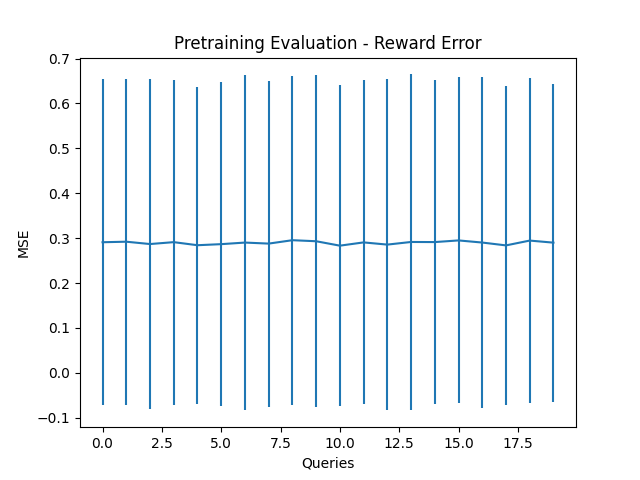
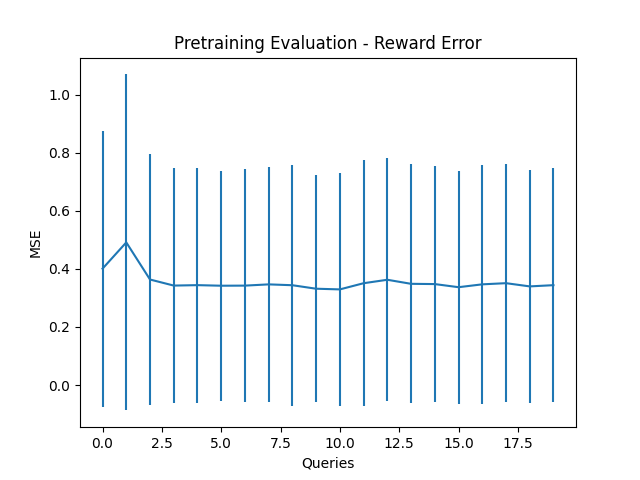
change query input to have chosen trajectory first

diff --git a/storage/vae_storage.py b/storage/vae_storage.py
@@ -22,24 +22,21 @@ class VAEStorage:
         self.buffer_len = 0
         self.idx = 0
 
-        self.queries = torch.zeros((self.buffer_size, args.query_size * args.num_features))
+        self.queries = torch.zeros((self.buffer_size, args.query_size, args.num_features))
 
         self.mean = None
         self.std = None
 
     def normalize_dataset(self, mean=None, std=None):
-        queries = self.queries.reshape((-1, self.args.num_features))
         if mean == None:
-            mean = torch.mean(queries[:self.buffer_len], dim=0)
+            mean = torch.mean(self.queries[:self.buffer_len], dim=0)
             self.mean = mean
         if std == None:
-            std = torch.std(queries[:self.buffer_len], dim=0)
+            std = torch.std(self.queries[:self.buffer_len], dim=0)
             self.std = std
 
         for i in range(self.buffer_len):
-            queries[i] = (queries[i] - mean) / std
-
-        self.queries = queries.reshape((self.buffer_size, self.args.query_size * self.args.num_features))
+            self.queries[i] = (self.queries[i] - mean) / std
 
     def get_random_true_rewards(self, batchsize=5):
         true_rewards = torch.normal(0, 1, (batchsize, self.args.num_features))
@@ -50,47 +47,47 @@ class VAEStorage:
          # select random indices for queries
         size = min(self.buffer_len, batchsize)
         idx = np.random.choice(range(self.buffer_len), size, replace=False)
-        queries = self.queries[idx, :]
+        queries = self.queries[idx, :, :]
         return queries
    
-    def get_batch(self, batchsize=5):
+    def get_batch(self, batchsize=5, true_rewards=None):
         # get batchsize queries and responses from dataset
         queries = self.get_random_queries(batchsize=batchsize)
 
-        # get true rewards
-        true_rewards = self.get_random_true_rewards(batchsize=batchsize)
+        # get true rewards if None
+        if true_rewards is None:
+            true_rewards = self.get_random_true_rewards(batchsize=batchsize)
 
         dists = response_dist(self.args, queries, true_rewards)
         answers = []
         for b in range(batchsize):
             answers.append(sample_dist(self.args, dists[b]))
+            # shuffle queries so that the chosen query is first
+            idx = list(range(self.args.query_size))
+            idx.insert(0, idx.pop(answers[b]))
+            queries[b] = queries[b][idx]
         answers = torch.stack(answers)
-        
+
         # select the rollouts we want
         return true_rewards, queries, answers
 
     def get_batch_seq(self, batchsize=5, seqlength=10):
-        # generate query sequences
-        query_seqs = []
-        for _ in range(seqlength):
-            # select the rollouts we want and append to sequences
-            queries = self.get_random_queries(batchsize=batchsize)
-            query_seqs.append(queries)
-        query_seqs = torch.stack(query_seqs)
-
         # get true rewards for each query sequence
         true_rewards = self.get_random_true_rewards(batchsize=batchsize)
 
-        # generate answer sequences
-        # detach rewards to prevent gradients
-        dists = response_dist(self.args, query_seqs, true_rewards)
+        # generate query and answer sequences
+        query_seqs = []
         answer_seqs = []
-        for t in range(seqlength):
-            answer_seq = sample_dist(self.args, dists[t])
-            answer_seqs.append(answer_seq)
+        for _ in range(seqlength):
+            # select the rollouts we want and append to sequences
+            _, queries, answers = self.get_batch(batchsize=batchsize, true_rewards=true_rewards)
+            query_seqs.append(queries)
+            answer_seqs.append(answers)
+
+        query_seqs = torch.stack(query_seqs)   
         answer_seqs = torch.stack(answer_seqs)
 
-        return true_rewards, query_seqs, answer_seqs
+        return true_rewards, query_seqs, 
 
     def insert(self, query):
 

diff --git a/models/encoder.py b/models/encoder.py
@@ -16,7 +16,7 @@ class Encoder(nn.Module):
         self.hidden_dim = args.gru_hidden_size
 
         self.fc_input_query = nn.Linear(args.num_features, args.fc_dim)
-        self.fc_input = nn.Linear(args.query_size * args.fc_dim + 1, 32)
+        self.fc_input = nn.Linear(args.query_size * args.fc_dim, 32)
 
         # RNN functionality
         self.gru = nn.GRU(input_size=32,
@@ -49,8 +49,7 @@ class Encoder(nn.Module):
             belief = mu / torch.linalg.norm(mu, dim=-1).unsqueeze(-1)
         return belief
 
-    def forward(self, query, answer, hidden):
-        query = query.reshape((*query.shape[:-1], self.args.query_size, self.args.num_features))
+    def forward(self, query, hidden):
         query_embeddings = []
         for i in range(self.args.query_size):
             query_embeddings.append(self.fc_input_query(query[:, :, i, :]))
@@ -58,8 +57,7 @@ class Encoder(nn.Module):
         query_embeddings = torch.flatten(query_embeddings, start_dim=-2)
         input_query = F.leaky_relu(query_embeddings)
         
-        output = torch.cat((input_query, answer), -1)
-        output = self.fc_input(output)
+        output = self.fc_input(input_query)
         output = F.leaky_relu(output)
 
         # run through gru
@@ -78,5 +76,5 @@ class Encoder(nn.Module):
         return belief, hidden
 
     def init_hidden(self, batchsize):
-        hidden = torch.zeros((1, batchsize, self.hidden_dim))
+        hidden = torch.zeros((self.args.gru_hidden_layers, batchsize, self.hidden_dim))
         return hidden

diff --git a/learner.py b/learner.py
@@ -220,8 +220,8 @@ class Learner:
                         val_answers = val_answer_seqs[i].unsqueeze(0)
                     
                         # get beliefs from queries and answers
-                        beliefs, hidden = self.encoder(curr_queries, curr_answers, hidden)
-                        val_beliefs, val_hidden = self.encoder(val_queries, val_answers, val_hidden)
+                        beliefs, hidden = self.encoder(curr_queries, hidden)
+                        val_beliefs, val_hidden = self.encoder(val_queries, val_hidden)
 
                         # compute predicted response at timestep for each query
                         inputs = response_dist(self.args, curr_queries, beliefs)
@@ -318,7 +318,7 @@ class Learner:
             for t in range(self.args.sequence_length):
 
                 # get beliefs from queries and answers
-                beliefs, hidden = self.encoder(curr_queries, curr_answers, hidden)
+                beliefs, hidden = self.encoder(curr_queries, hidden)
 
                 # get inputs and targets for cross entropy loss
                 inputs = response_dist(self.args, curr_queries, beliefs)

diff --git a/utils/helpers.py b/utils/helpers.py
@@ -22,7 +22,7 @@ class FeatureExtractor:
         self.args = args
 
     def featurize(self, traj):
-        features = np.zeros((self.args.num_features))
+        features = torch.zeros((self.args.num_features))
         obs, actions, next_obs, rews = traj
         
         if self.args.env_type == 'gridworld':
@@ -93,11 +93,9 @@ def collect_dataset(args, world, mean=None, std=None):
         for _ in range(args.query_size):
             traj = collect_random_trajectory(world)
             featurized = feature_extractor.featurize(traj)
-            query.extend(featurized)
+            query.append(featurized)
         
-        assert len(query) == args.query_size * args.num_features
-        
-        query = torch.tensor(query)
+        query = torch.stack(query)
         dataset.insert(query)
 
         if args.verbose and (i+1) % 200 == 0:

diff --git a/configs/gridworld.py b/configs/gridworld.py
@@ -6,7 +6,7 @@ def args(rest_args):
 
     ##### GENERAL #####
 
-    parser.add_argument('--num_iters', type=int, default=100)
+    parser.add_argument('--num_iters', type=int, default=1000)
     parser.add_argument('--seed', type=int, default=1)
     parser.add_argument('--log_dir', type=Path, default=Path('/logs'))
     parser.add_argument('--save_interval', type=int, default=10)

diff --git a/query/simulate.py b/query/simulate.py
@@ -11,7 +11,7 @@ def sample_dist(args, dist):
     return sample
 
 def response_dist(args, query, w):
-    trajs = torch.reshape(query, (*query.shape[:-1], args.query_size, args.num_features))
+    trajs = torch.reshape(query, (-1, args.query_size, args.num_features))
     w = w.unsqueeze(-2)
     dist = torch.sum(trajs * w, dim=-1)
     # boltzmann rationality
